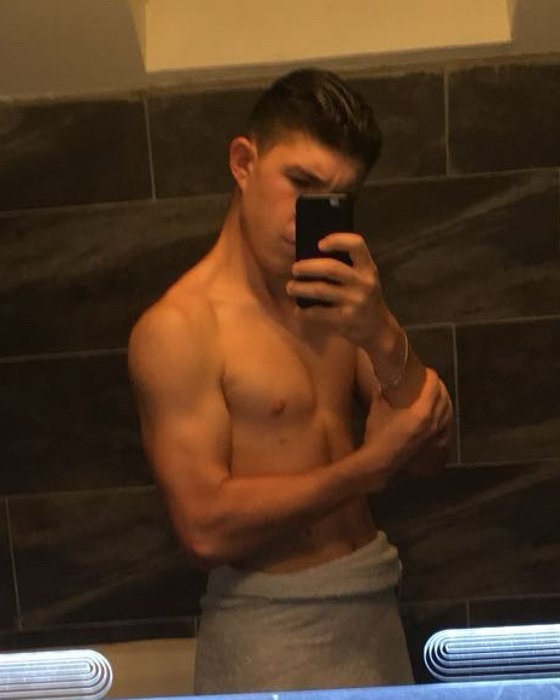
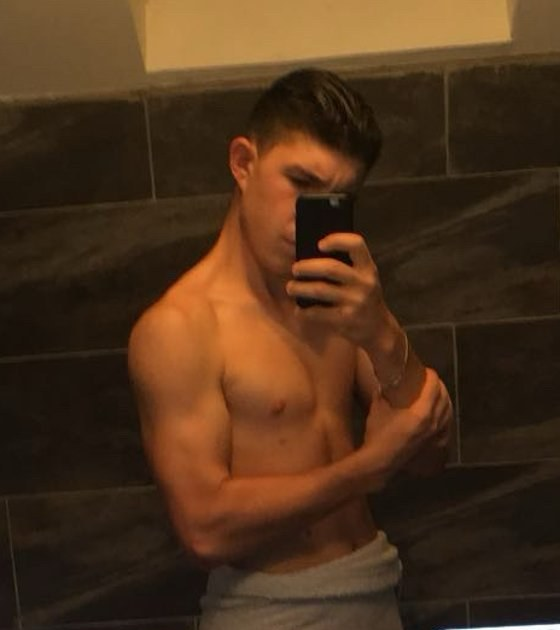
Finitions : FAQ sur 2 colonnes, e-mail sans coupure, photo 2018 recadrée
Claude-Session: https://claude.ai/code/session_01DcWyGVHSmErQWAgrYpfQn3

diff --git a/site-en-ligne/index.html b/site-en-ligne/index.html
@@ -170,6 +170,7 @@ section{padding-block:64px}
 
 /* FAQ */
 .faq{display:grid;gap:12px;max-width:820px}
+@media (min-width:1000px){.faq-wrap{display:grid;grid-template-columns:minmax(0,.8fr) minmax(0,1.2fr);gap:56px;align-items:start}.faq-wrap .head{position:sticky;top:120px;display:grid;gap:20px;margin-bottom:0}.faq-wrap .faq{max-width:none}}
 details{background:var(--surface);border:1px solid var(--line);border-radius:16px;padding:18px 22px}
 summary::-webkit-details-marker{display:none}
 summary{cursor:pointer;font-weight:700;list-style:none;display:flex;justify-content:space-between;gap:16px}
@@ -499,7 +500,7 @@ footer .wrap{display:flex;flex-wrap:wrap;justify-content:space-between;gap:12px;
       <div class="ways">
         <div class="way way-main"><span class="ico"><svg viewBox="0 0 24 24" fill="none" stroke="currentColor" stroke-width="2" stroke-linecap="round" stroke-linejoin="round"><rect x="3" y="4" width="18" height="18" rx="2"/><path d="M16 2v4M8 2v4M3 10h18M9 15l2 2 4-4"/></svg></span><span class="lbl">Appel découverte · Visio</span><span class="val">Choisis ton créneau</span>
           <div class="acts"><a class="chip main" href="https://calendly.com/alexisbloquecoaching/30min" target="_blank" rel="noopener" data-calendly>Réserver mon appel</a></div></div>
-        <div class="way"><span class="ico"><svg viewBox="0 0 24 24" fill="none" stroke="currentColor" stroke-width="2" stroke-linecap="round" stroke-linejoin="round"><rect x="2" y="4" width="20" height="16" rx="2"/><path d="m22 7-10 6L2 7"/></svg></span><span class="lbl">E-mail</span><span class="val" id="mailAddr">alexis.bloquecoaching@gmail.com</span>
+        <div class="way"><span class="ico"><svg viewBox="0 0 24 24" fill="none" stroke="currentColor" stroke-width="2" stroke-linecap="round" stroke-linejoin="round"><rect x="2" y="4" width="20" height="16" rx="2"/><path d="m22 7-10 6L2 7"/></svg></span><span class="lbl">E-mail</span><span class="val" id="mailAddr">alexis.bloquecoaching<wbr>@gmail.com</span>
           <div class="acts"><a class="chip main" href="mailto:alexis.bloquecoaching@gmail.com?subject=Demande%20d'appel%20d%C3%A9couverte">Écrire un mail</a><button class="chip" type="button" data-copy="alexis.bloquecoaching@gmail.com">Copier</button></div></div>
         <div class="way"><span class="ico"><svg viewBox="0 0 24 24" fill="none" stroke="currentColor" stroke-width="2" stroke-linecap="round" stroke-linejoin="round"><rect x="2" y="2" width="20" height="20" rx="5"/><circle cx="12" cy="12" r="4"/><circle cx="17.5" cy="6.5" r=".8" fill="currentColor"/></svg></span><span class="lbl">Instagram</span><span class="val">@alexisblq_coaching</span>
           <div class="acts"><a class="chip main" href="https://www.instagram.com/alexisblq_coaching/" target="_blank" rel="noopener">Voir le profil</a></div></div>
@@ -509,7 +510,7 @@ footer .wrap{display:flex;flex-wrap:wrap;justify-content:space-between;gap:12px;
 </section>
 
 <section id="faq">
-  <div class="wrap">
+  <div class="wrap faq-wrap">
     <div class="head reveal"><div><p class="eyebrow">Tes questions</p><h2 style="margin-top:10px">Questions fréquentes</h2></div><p>Tu hésites encore ? C'est normal. Voici les réponses aux questions qu'on me pose le plus souvent.</p></div>
     <div class="faq">
       <details><summary>Je débute, ou je n'ai pas fait de sport depuis longtemps. C'est fait pour moi ?</summary><p>Oui, et c'est même pour ça que j'existe. Il n'y a pas de niveau minimum : on part de là où tu en es aujourd'hui, pas de là où tu « devrais » être. Ton programme est construit pour toi, avec des exercices que tu sais faire et une progression à ton rythme. Je t'explique chaque mouvement et je corrige ta technique sur vidéo. Tu ne seras jamais laissé seul face à une séance trop dure.</p></details>

diff --git a/site/index.html b/site/index.html
@@ -154,6 +154,7 @@ section{padding-block:64px}
 
 /* FAQ */
 .faq{display:grid;gap:12px;max-width:820px}
+@media (min-width:1000px){.faq-wrap{display:grid;grid-template-columns:minmax(0,.8fr) minmax(0,1.2fr);gap:56px;align-items:start}.faq-wrap .head{position:sticky;top:120px;display:grid;gap:20px;margin-bottom:0}.faq-wrap .faq{max-width:none}}
 details{background:var(--surface);border:1px solid var(--line);border-radius:16px;padding:18px 22px}
 summary::-webkit-details-marker{display:none}
 summary{cursor:pointer;font-weight:700;list-style:none;display:flex;justify-content:space-between;gap:16px}
@@ -482,7 +483,7 @@ footer .wrap{display:flex;flex-wrap:wrap;justify-content:space-between;gap:12px;
       <div class="ways">
         <div class="way way-main"><span class="ico"><svg viewBox="0 0 24 24" fill="none" stroke="currentColor" stroke-width="2" stroke-linecap="round" stroke-linejoin="round"><rect x="3" y="4" width="18" height="18" rx="2"/><path d="M16 2v4M8 2v4M3 10h18M9 15l2 2 4-4"/></svg></span><span class="lbl">Appel découverte · Visio</span><span class="val">Choisis ton créneau</span>
           <div class="acts"><a class="chip main" href="https://calendly.com/alexisbloquecoaching/30min" target="_blank" rel="noopener" data-calendly>Réserver mon appel</a></div></div>
-        <div class="way"><span class="ico"><svg viewBox="0 0 24 24" fill="none" stroke="currentColor" stroke-width="2" stroke-linecap="round" stroke-linejoin="round"><rect x="2" y="4" width="20" height="16" rx="2"/><path d="m22 7-10 6L2 7"/></svg></span><span class="lbl">E-mail</span><span class="val" id="mailAddr">alexis.bloquecoaching@gmail.com</span>
+        <div class="way"><span class="ico"><svg viewBox="0 0 24 24" fill="none" stroke="currentColor" stroke-width="2" stroke-linecap="round" stroke-linejoin="round"><rect x="2" y="4" width="20" height="16" rx="2"/><path d="m22 7-10 6L2 7"/></svg></span><span class="lbl">E-mail</span><span class="val" id="mailAddr">alexis.bloquecoaching<wbr>@gmail.com</span>
           <div class="acts"><a class="chip main" href="mailto:alexis.bloquecoaching@gmail.com?subject=Demande%20d'appel%20d%C3%A9couverte">Écrire un mail</a><button class="chip" type="button" data-copy="alexis.bloquecoaching@gmail.com">Copier</button></div></div>
         <div class="way"><span class="ico"><svg viewBox="0 0 24 24" fill="none" stroke="currentColor" stroke-width="2" stroke-linecap="round" stroke-linejoin="round"><rect x="2" y="2" width="20" height="20" rx="5"/><circle cx="12" cy="12" r="4"/><circle cx="17.5" cy="6.5" r=".8" fill="currentColor"/></svg></span><span class="lbl">Instagram</span><span class="val">@alexisblq_coaching</span>
           <div class="acts"><a class="chip main" href="https://www.instagram.com/alexisblq_coaching/" target="_blank" rel="noopener">Voir le profil</a></div></div>
@@ -492,7 +493,7 @@ footer .wrap{display:flex;flex-wrap:wrap;justify-content:space-between;gap:12px;
 </section>
 
 <section id="faq">
-  <div class="wrap">
+  <div class="wrap faq-wrap">
     <div class="head reveal"><div><p class="eyebrow">Tes questions</p><h2 style="margin-top:10px">Questions fréquentes</h2></div><p>Tu hésites encore ? C'est normal. Voici les réponses aux questions qu'on me pose le plus souvent.</p></div>
     <div class="faq">
       <details><summary>Je débute, ou je n'ai pas fait de sport depuis longtemps. C'est fait pour moi ?</summary><p>Oui, et c'est même pour ça que j'existe. Il n'y a pas de niveau minimum : on part de là où tu en es aujourd'hui, pas de là où tu « devrais » être. Ton programme est construit pour toi, avec des exercices que tu sais faire et une progression à ton rythme. Je t'explique chaque mouvement et je corrige ta technique sur vidéo. Tu ne seras jamais laissé seul face à une séance trop dure.</p></details>
